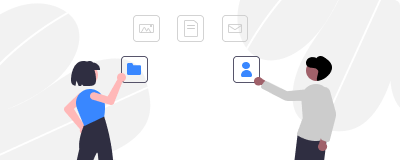
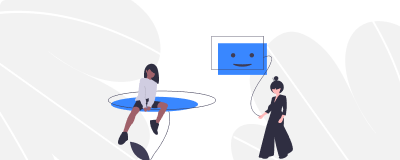
onboarding: Added pagination dots.

diff --git a/apps/onboarding/main.cpp b/apps/onboarding/main.cpp
@@ -4,6 +4,7 @@
 #include <libwidget/Markup.h>
 #include <libwidget/Screen.h>
 #include <libwidget/Widgets.h>
+#include <libwidget/widgets/PaginationDots.h>
 
 int main(int argc, char **argv)
 {
@@ -26,7 +27,7 @@ int main(int argc, char **argv)
     auto dialog = new Panel(background);
 
     dialog->max_width(400);
-    dialog->max_height(350);
+    dialog->max_height(400);
     dialog->layout(VFLOW(0));
     dialog->border_radius(6);
 
@@ -43,12 +44,17 @@ int main(int argc, char **argv)
     content->flags(Widget::FILL);
     content->insets(16);
 
+    auto dots_container = new Container(dialog);
+    dots_container->insets(16);
+
+    auto dots = new PaginationDots(dots_container, 5);
+
     auto navigation = new Container(dialog);
 
     navigation->layout(HFLOW(4));
     navigation->insets(8);
 
-    auto skipall_button = new Button(navigation, BUTTON_TEXT, "Skip all");
+    auto skipall_button = new Button(navigation, BUTTON_TEXT, "Skip All");
 
     new Spacer(navigation);
 
@@ -56,13 +62,14 @@ int main(int argc, char **argv)
 
     auto next_button = new Button(navigation, BUTTON_FILLED, "Next");
 
-    int current_page = 1;
+    int current_page = 0;
 
     auto set_current_page = [&](int index) {
         current_page = index;
 
-        skipall_button->enable_if(current_page < 5);
-        back_button->enable_if(current_page > 1);
+        skipall_button->enable_if(current_page < 4);
+        back_button->enable_if(current_page > 0);
+        dots->index(index);
 
         char image_path[PATH_LENGTH];
         snprintf(image_path, PATH_LENGTH, "/Applications/onboarding/illustration%d.png", index);
@@ -75,21 +82,21 @@ int main(int argc, char **argv)
         widget_create_from_file(content, content_path);
     };
 
-    set_current_page(1);
+    set_current_page(0);
 
     skipall_button->on(Event::ACTION, [](auto) {
         Application::exit(PROCESS_SUCCESS);
     });
 
     back_button->on(Event::ACTION, [&](auto) {
-        if (current_page - 1 > 0)
+        if (current_page > 0)
         {
             set_current_page(current_page - 1);
         }
     });
 
     next_button->on(Event::ACTION, [&](auto) {
-        if (current_page + 1 > 5)
+        if (current_page == 4)
         {
             Application::exit(PROCESS_SUCCESS);
         }

diff --git a/libraries/libwidget/widgets/PaginationDots.h b/libraries/libwidget/widgets/PaginationDots.h
@@ -1,0 +1,74 @@
+#pragma once
+
+#include <libgraphic/Painter.h>
+
+#include <libwidget/Widget.h>
+
+class PaginationDots : public Widget
+{
+private:
+    int _count = 3;
+    int _index = 0;
+
+public:
+    static constexpr int DOTSIZE = 4;
+    static constexpr int DOTSPACING = 8;
+
+    int count()
+    {
+        return _count;
+    }
+
+    void count(int count)
+    {
+        _count = count;
+        max_width(size().x());
+        should_relayout();
+        should_repaint();
+    }
+
+    int index()
+    {
+        return _index;
+    }
+
+    void index(int index)
+    {
+        should_repaint();
+        _index = index;
+    }
+
+    PaginationDots(Widget *parent, int count)
+        : Widget(parent),
+          _count(count)
+    {
+        max_height(DOTSIZE);
+        max_width(size().x());
+    }
+
+    ~PaginationDots()
+    {
+    }
+
+    void paint(Painter &painter, Recti) override
+    {
+        for (int i = 0; i < _count; i++)
+        {
+            auto dot = content_bound().column(_count, i, DOTSPACING);
+
+            if (_index == i)
+            {
+                painter.fill_rounded_rectangle(dot, DOTSIZE, color(THEME_FOREGROUND));
+            }
+            else
+            {
+                painter.fill_rounded_rectangle(dot, DOTSIZE, color(THEME_BORDER));
+            }
+        }
+    }
+
+    Vec2i size() override
+    {
+        return {DOTSIZE * _count + DOTSPACING * (_count - 1), DOTSIZE};
+    }
+};

diff --git a/libraries/libsystem/algebra/Rect.h b/libraries/libsystem/algebra/Rect.h
@@ -303,7 +303,7 @@ public:
         assert(index >= 0);
         assert(column_count > 0);
 
-        int spacing_width = spacing * column_count - 1;
+        int spacing_width = spacing * (column_count - 1);
 
         int available_width = width() - spacing_width;
 
